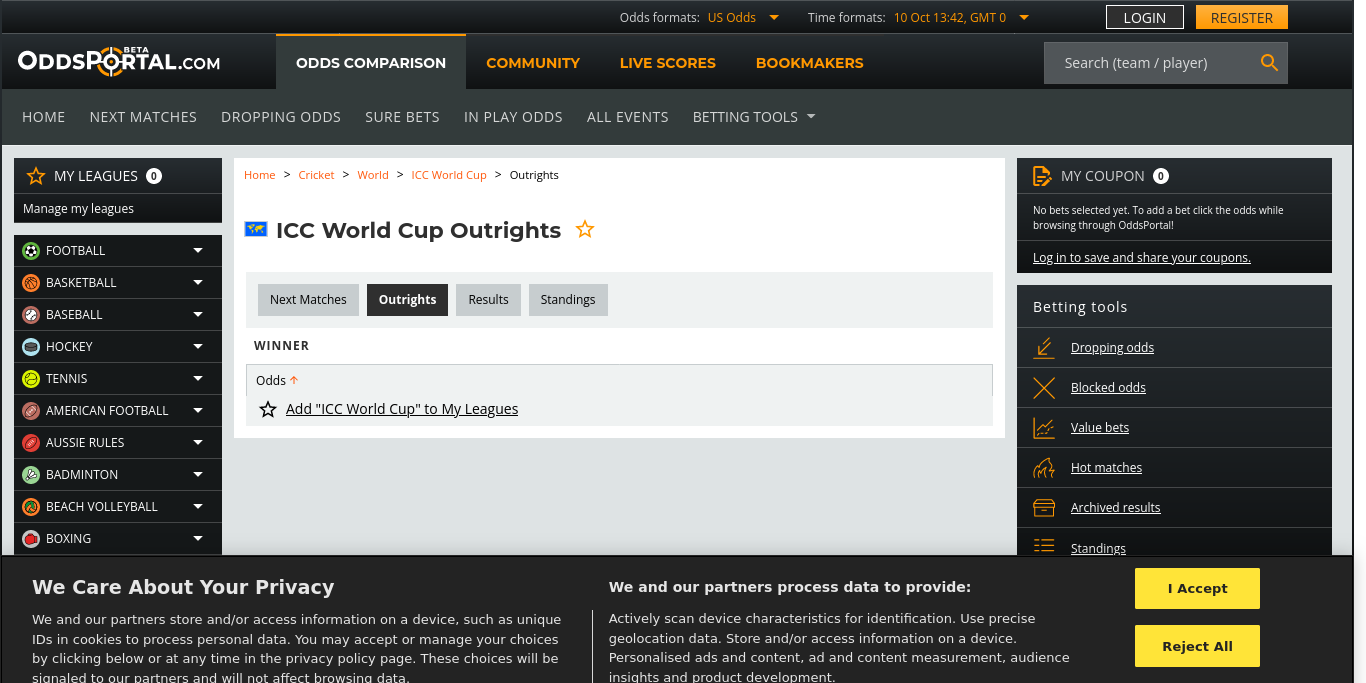
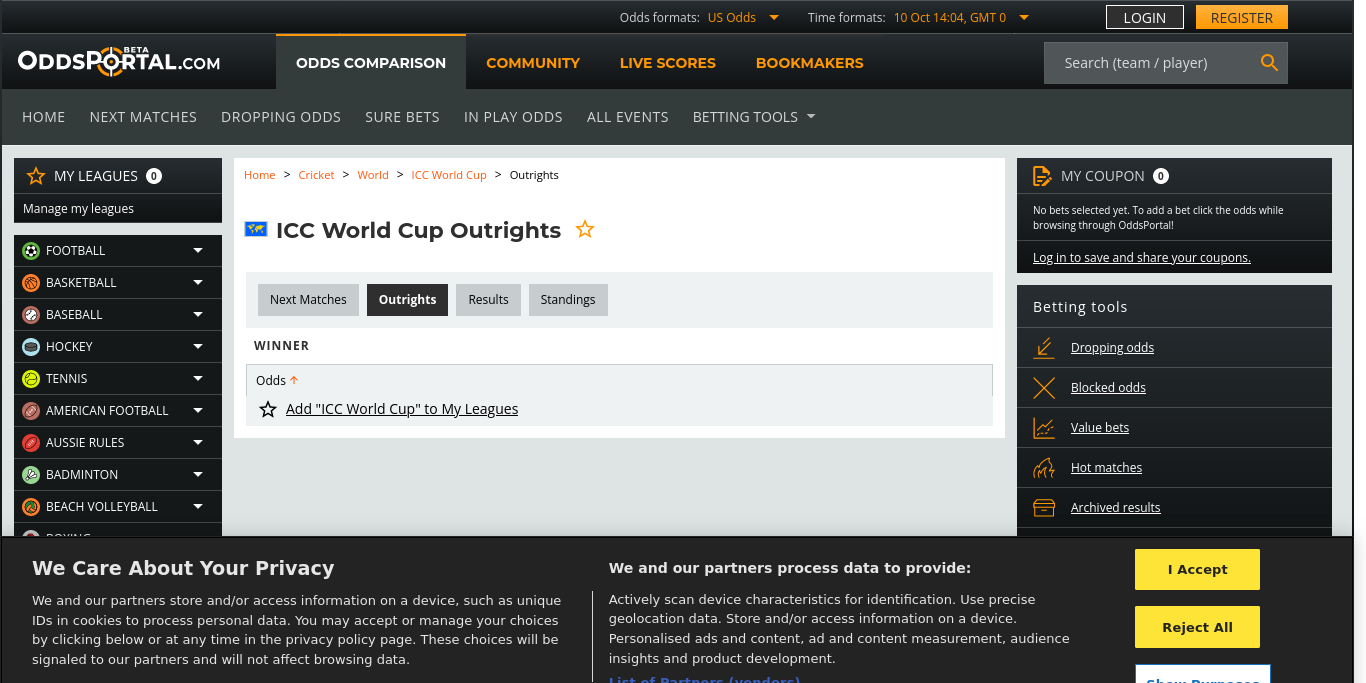
Update Data (Cron) Tue Oct 10 14:04:30 UTC 2023

Changed region(s): [[0.0, 0.7687, 0.9531, 1.0], [0.9531, 0.7687, 1.0, 0.8302], [0.6764, 0.0, 0.7072, 0.0307]]

diff --git a/src/nonview/data/TEAM1_ID_TO_TEAM2_ID_TO_ODDS_PAIR.js b/src/nonview/data/TEAM1_ID_TO_TEAM2_ID_TO_ODDS_PAIR.js
@@ -1,19 +1,19 @@
 // Auto Generated by workflows/update_team1_id_to_team2_id_to_odds_pair.py
-// www.oddsportal.com - 2023-10-10 19:13:14
+// www.oddsportal.com - 2023-10-10 19:34:30
 
 import { TEAM } from "../core/Team.js";
 
 export const TEAM1_ID_TO_TEAM2_ID_TO_ODDS_PAIR = {
   [TEAM.IND.id]: {
-    [TEAM.AFG.id]: [1.10, 6.70],
+    [TEAM.AFG.id]: [1.10, 6.66],
     [TEAM.PAK.id]: [1.44, 2.79],
   },
   [TEAM.AUS.id]: {
-    [TEAM.ZAF.id]: [1.68, 2.16],
+    [TEAM.ZAF.id]: [1.68, 2.14],
     [TEAM.LKA.id]: [1.44, 2.77],
   },
   [TEAM.NZL.id]: {
-    [TEAM.BGD.id]: [1.34, 3.29],
+    [TEAM.BGD.id]: [1.35, 3.15],
   },
   [TEAM.ENG.id]: {
     [TEAM.AFG.id]: [1.14, 5.80],

diff --git a/src/nonview/constants/VERSION.js b/src/nonview/constants/VERSION.js
@@ -1,4 +1,4 @@
 // Auto-generated by javascript_version.py
-export const DATETIME_STR = "2023-10-10 19:13:14";
+export const DATETIME_STR = "2023-10-10 19:34:30";
 export const VERSION_DATETIME = new Date(DATETIME_STR);
 export const LAST_COMMIT_MESSAGE = "Updated 📊Data"

diff --git a/src/nonview/data/ODI_ID_TO_WINNER.js b/src/nonview/data/ODI_ID_TO_WINNER.js
@@ -1,5 +1,5 @@
 // Auto Generated by workflows/update_odi_id_to_winner.py
-// www.cricbuzz.com - 2023-10-10 19:13:03
+// www.cricbuzz.com - 2023-10-10 19:34:21
 
 import { TEAM } from "../core/Team.js";
 
